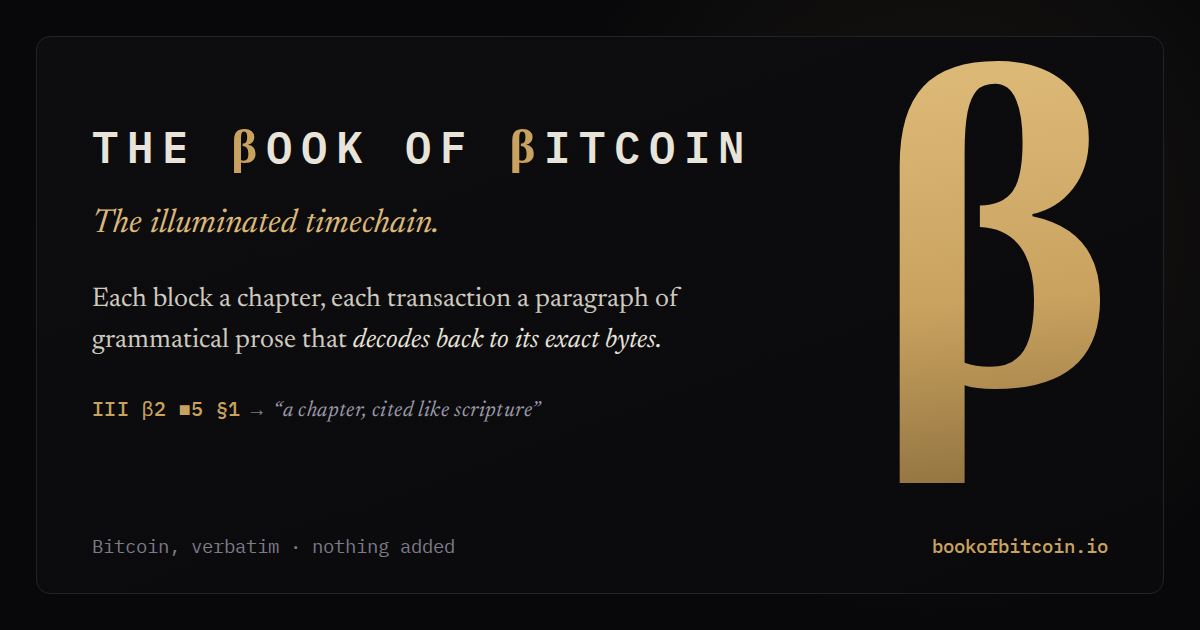
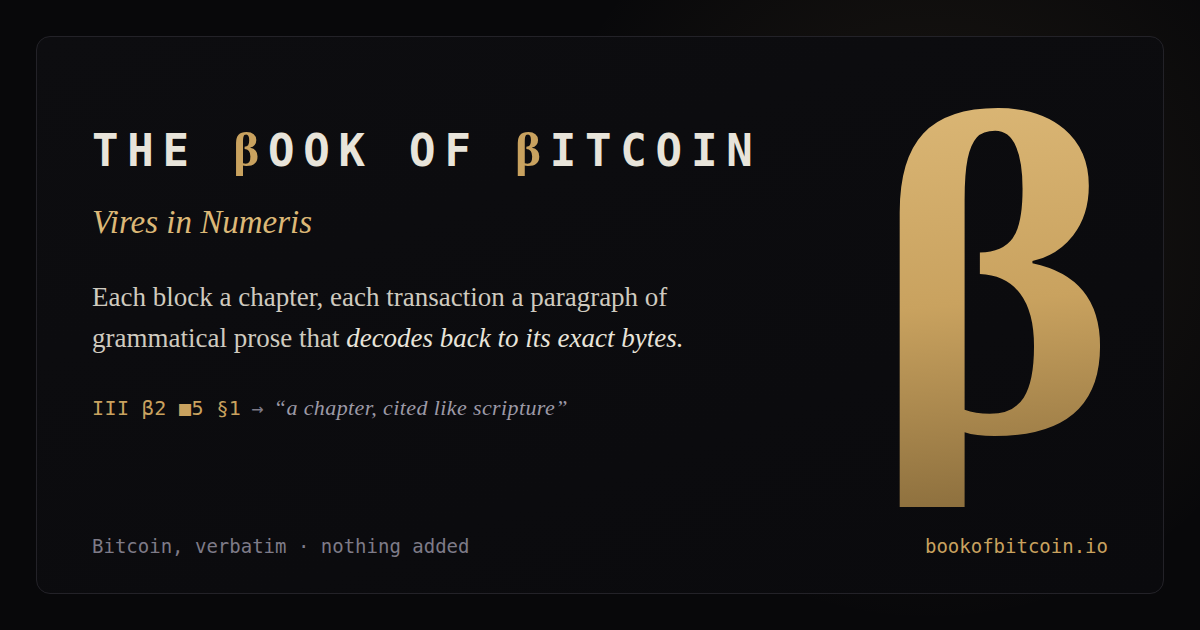
Deploy preview for PR 57 🛫

diff --git a/pr-preview/pr-57/index.html b/pr-preview/pr-57/index.html
@@ -23,15 +23,15 @@
      own card. -->
 <meta property="og:type" content="website">
 <meta property="og:site_name" content="The βook of βitcoin">
-<meta property="og:title" content="The βook of βitcoin — a block, read as a chapter">
+<meta property="og:title" content="The βook of βitcoin — Vires in Numeris">
 <meta property="og:description" content="The illuminated timechain: each block a chapter, each transaction a paragraph of grammatically correct prose — witness data collected as footnotes. Every byte decodes back out exactly.">
 <meta property="og:url" content="https://bookofbitcoin.io/">
 <meta property="og:image" content="https://bookofbitcoin.io/og-bookofbitcoin.png">
 <meta property="og:image:width" content="1200">
 <meta property="og:image:height" content="630">
-<meta property="og:image:alt" content="The βook of βitcoin — the illuminated timechain. A gold β standing beside the book's title on a dark cover.">
+<meta property="og:image:alt" content="The βook of βitcoin — Vires in Numeris. A gold β standing beside the book's title on a dark cover.">
 <meta name="twitter:card" content="summary_large_image">
-<meta name="twitter:title" content="The βook of βitcoin — a block, read as a chapter">
+<meta name="twitter:title" content="The βook of βitcoin — Vires in Numeris">
 <meta name="twitter:description" content="The illuminated timechain: each block a chapter, each transaction a paragraph of grammatically correct prose.">
 <meta name="twitter:image" content="https://bookofbitcoin.io/og-bookofbitcoin.png">
 </head>

diff --git a/pr-preview/pr-57/bitcoin-front.html b/pr-preview/pr-57/bitcoin-front.html
@@ -11,15 +11,15 @@
 <!-- Social / rich unfurl -->
 <meta property="og:type" content="website">
 <meta property="og:site_name" content="The βook of βitcoin">
-<meta property="og:title" content="The βook of βitcoin — Front Matter">
+<meta property="og:title" content="The βook of βitcoin — Vires in Numeris">
 <meta property="og:description" content="Title, terms, the author's preface, and the key to the sigla.">
 <meta property="og:url" content="https://bookofbitcoin.io/bitcoin-front.html">
 <meta property="og:image" content="https://bookofbitcoin.io/og-bookofbitcoin.png">
 <meta property="og:image:width" content="1200">
 <meta property="og:image:height" content="630">
-<meta property="og:image:alt" content="The βook of βitcoin — the illuminated timechain. A gold β standing beside the book's title on a dark cover.">
+<meta property="og:image:alt" content="The βook of βitcoin — Vires in Numeris. A gold β standing beside the book's title on a dark cover.">
 <meta name="twitter:card" content="summary_large_image">
-<meta name="twitter:title" content="The βook of βitcoin — Front Matter">
+<meta name="twitter:title" content="The βook of βitcoin — Vires in Numeris">
 <meta name="twitter:description" content="Title, terms, the author's preface, and the key to the sigla.">
 <meta name="twitter:image" content="https://bookofbitcoin.io/og-bookofbitcoin.png">
 <link rel="manifest" href="./bitcoin-book.webmanifest">

diff --git a/pr-preview/pr-57/bitcoin-book.html b/pr-preview/pr-57/bitcoin-book.html
@@ -49,7 +49,7 @@
 <meta property="og:image" content="https://bookofbitcoin.io/og-bookofbitcoin.png">
 <meta property="og:image:width" content="1200">
 <meta property="og:image:height" content="630">
-<meta property="og:image:alt" content="The βook of βitcoin — the illuminated timechain. A gold β standing beside the book's title on a dark cover.">
+<meta property="og:image:alt" content="The βook of βitcoin — Vires in Numeris. A gold β standing beside the book's title on a dark cover.">
 <meta name="twitter:card" content="summary_large_image">
 <meta name="twitter:title" content="The βook of βitcoin — a block, read as a chapter">
 <meta name="twitter:description" content="The illuminated timechain: each block a chapter, each transaction a paragraph of grammatically correct prose.">

diff --git a/pr-preview/pr-57/bitcoin-appendix.html b/pr-preview/pr-57/bitcoin-appendix.html
@@ -16,7 +16,7 @@
 <meta property="og:image" content="https://bookofbitcoin.io/og-bookofbitcoin.png">
 <meta property="og:image:width" content="1200">
 <meta property="og:image:height" content="630">
-<meta property="og:image:alt" content="The βook of βitcoin — the illuminated timechain. A gold β standing beside the book's title on a dark cover.">
+<meta property="og:image:alt" content="The βook of βitcoin — Vires in Numeris. A gold β standing beside the book's title on a dark cover.">
 <meta name="twitter:card" content="summary_large_image">
 <meta name="twitter:title" content="The βook of βitcoin — Appendices">
 <meta name="twitter:description" content="What the book gathers after the volumes — the queue, the fixed heights, the ledgers, and the works the chain has dated.">

diff --git a/pr-preview/pr-57/bitcoin-proof.html b/pr-preview/pr-57/bitcoin-proof.html
@@ -16,7 +16,7 @@
 <meta property="og:image" content="https://bookofbitcoin.io/og-bookofbitcoin.png">
 <meta property="og:image:width" content="1200">
 <meta property="og:image:height" content="630">
-<meta property="og:image:alt" content="The βook of βitcoin — the illuminated timechain. A gold β standing beside the book's title on a dark cover.">
+<meta property="og:image:alt" content="The βook of βitcoin — Vires in Numeris. A gold β standing beside the book's title on a dark cover.">
 <meta name="twitter:card" content="summary_large_image">
 <meta name="twitter:title" content="The βook of βitcoin — A cited work">
 <meta name="twitter:description" content="A document's timestamp proof, written out as prose — ending on the merkle root a block header commits to.">

diff --git a/pr-preview/pr-57/bitcoin-contents.html b/pr-preview/pr-57/bitcoin-contents.html
@@ -16,7 +16,7 @@
 <meta property="og:image" content="https://bookofbitcoin.io/og-bookofbitcoin.png">
 <meta property="og:image:width" content="1200">
 <meta property="og:image:height" content="630">
-<meta property="og:image:alt" content="The βook of βitcoin — the illuminated timechain. A gold β standing beside the book's title on a dark cover.">
+<meta property="og:image:alt" content="The βook of βitcoin — Vires in Numeris. A gold β standing beside the book's title on a dark cover.">
 <meta name="twitter:card" content="summary_large_image">
 <meta name="twitter:title" content="The βook of βitcoin — Table of Contents">
 <meta name="twitter:description" content="Famous transactions and the first occurrence of each payment type, each read as a chapter.">

diff --git a/pr-preview/pr-57/bitcoin-search.html b/pr-preview/pr-57/bitcoin-search.html
@@ -16,7 +16,7 @@
 <meta property="og:image" content="https://bookofbitcoin.io/og-bookofbitcoin.png">
 <meta property="og:image:width" content="1200">
 <meta property="og:image:height" content="630">
-<meta property="og:image:alt" content="The βook of βitcoin — the illuminated timechain. A gold β standing beside the book's title on a dark cover.">
+<meta property="og:image:alt" content="The βook of βitcoin — Vires in Numeris. A gold β standing beside the book's title on a dark cover.">
 <meta name="twitter:card" content="summary_large_image">
 <meta name="twitter:title" content="The βook of βitcoin — Search">
 <meta name="twitter:description" content="Look up any chapter: a block height, a block hash, a transaction id, or a citation.">

diff --git a/pr-preview/pr-57/bitcoin-anthology.html b/pr-preview/pr-57/bitcoin-anthology.html
@@ -19,7 +19,7 @@
 <meta property="og:image" content="https://bookofbitcoin.io/og-bookofbitcoin.png">
 <meta property="og:image:width" content="1200">
 <meta property="og:image:height" content="630">
-<meta property="og:image:alt" content="The βook of βitcoin — the illuminated timechain. A gold β standing beside the book's title on a dark cover.">
+<meta property="og:image:alt" content="The βook of βitcoin — Vires in Numeris. A gold β standing beside the book's title on a dark cover.">
 <meta name="twitter:card" content="summary_large_image">
 <meta name="twitter:title" content="The βook of βitcoin — Ledger">
 <meta name="twitter:description" content="A compendium of notable donation addresses, each reconciled against the chain.">

diff --git a/pr-preview/pr-57/bitcoin-index.html b/pr-preview/pr-57/bitcoin-index.html
@@ -19,7 +19,7 @@
 <meta property="og:image" content="https://bookofbitcoin.io/og-bookofbitcoin.png">
 <meta property="og:image:width" content="1200">
 <meta property="og:image:height" content="630">
-<meta property="og:image:alt" content="The βook of βitcoin — the illuminated timechain. A gold β standing beside the book's title on a dark cover.">
+<meta property="og:image:alt" content="The βook of βitcoin — Vires in Numeris. A gold β standing beside the book's title on a dark cover.">
 <meta name="twitter:card" content="summary_large_image">
 <meta name="twitter:title" content="The βook of βitcoin — Ledger">
 <meta name="twitter:description" content="A compendium of notable donation addresses, each reconciled against the chain.">

diff --git a/pr-preview/pr-57/bitcoin-ledger.html b/pr-preview/pr-57/bitcoin-ledger.html
@@ -16,7 +16,7 @@
 <meta property="og:image" content="https://bookofbitcoin.io/og-bookofbitcoin.png">
 <meta property="og:image:width" content="1200">
 <meta property="og:image:height" content="630">
-<meta property="og:image:alt" content="The βook of βitcoin — the illuminated timechain. A gold β standing beside the book's title on a dark cover.">
+<meta property="og:image:alt" content="The βook of βitcoin — Vires in Numeris. A gold β standing beside the book's title on a dark cover.">
 <meta name="twitter:card" content="summary_large_image">
 <meta name="twitter:title" content="The βook of βitcoin — Ledger">
 <meta name="twitter:description" content="A compendium of notable donation addresses, each reconciled against the chain.">

diff --git a/pr-preview/pr-57/bitcoin-ledgers.html b/pr-preview/pr-57/bitcoin-ledgers.html
@@ -18,7 +18,7 @@
 <meta property="og:image" content="https://bookofbitcoin.io/og-bookofbitcoin.png">
 <meta property="og:image:width" content="1200">
 <meta property="og:image:height" content="630">
-<meta property="og:image:alt" content="The βook of βitcoin — the illuminated timechain. A gold β standing beside the book's title on a dark cover.">
+<meta property="og:image:alt" content="The βook of βitcoin — Vires in Numeris. A gold β standing beside the book's title on a dark cover.">
 <meta name="twitter:card" content="summary_large_image">
 <meta name="twitter:title" content="The βook of βitcoin — Ledger">
 <meta name="twitter:description" content="A compendium of notable donation addresses, each reconciled against the chain.">
